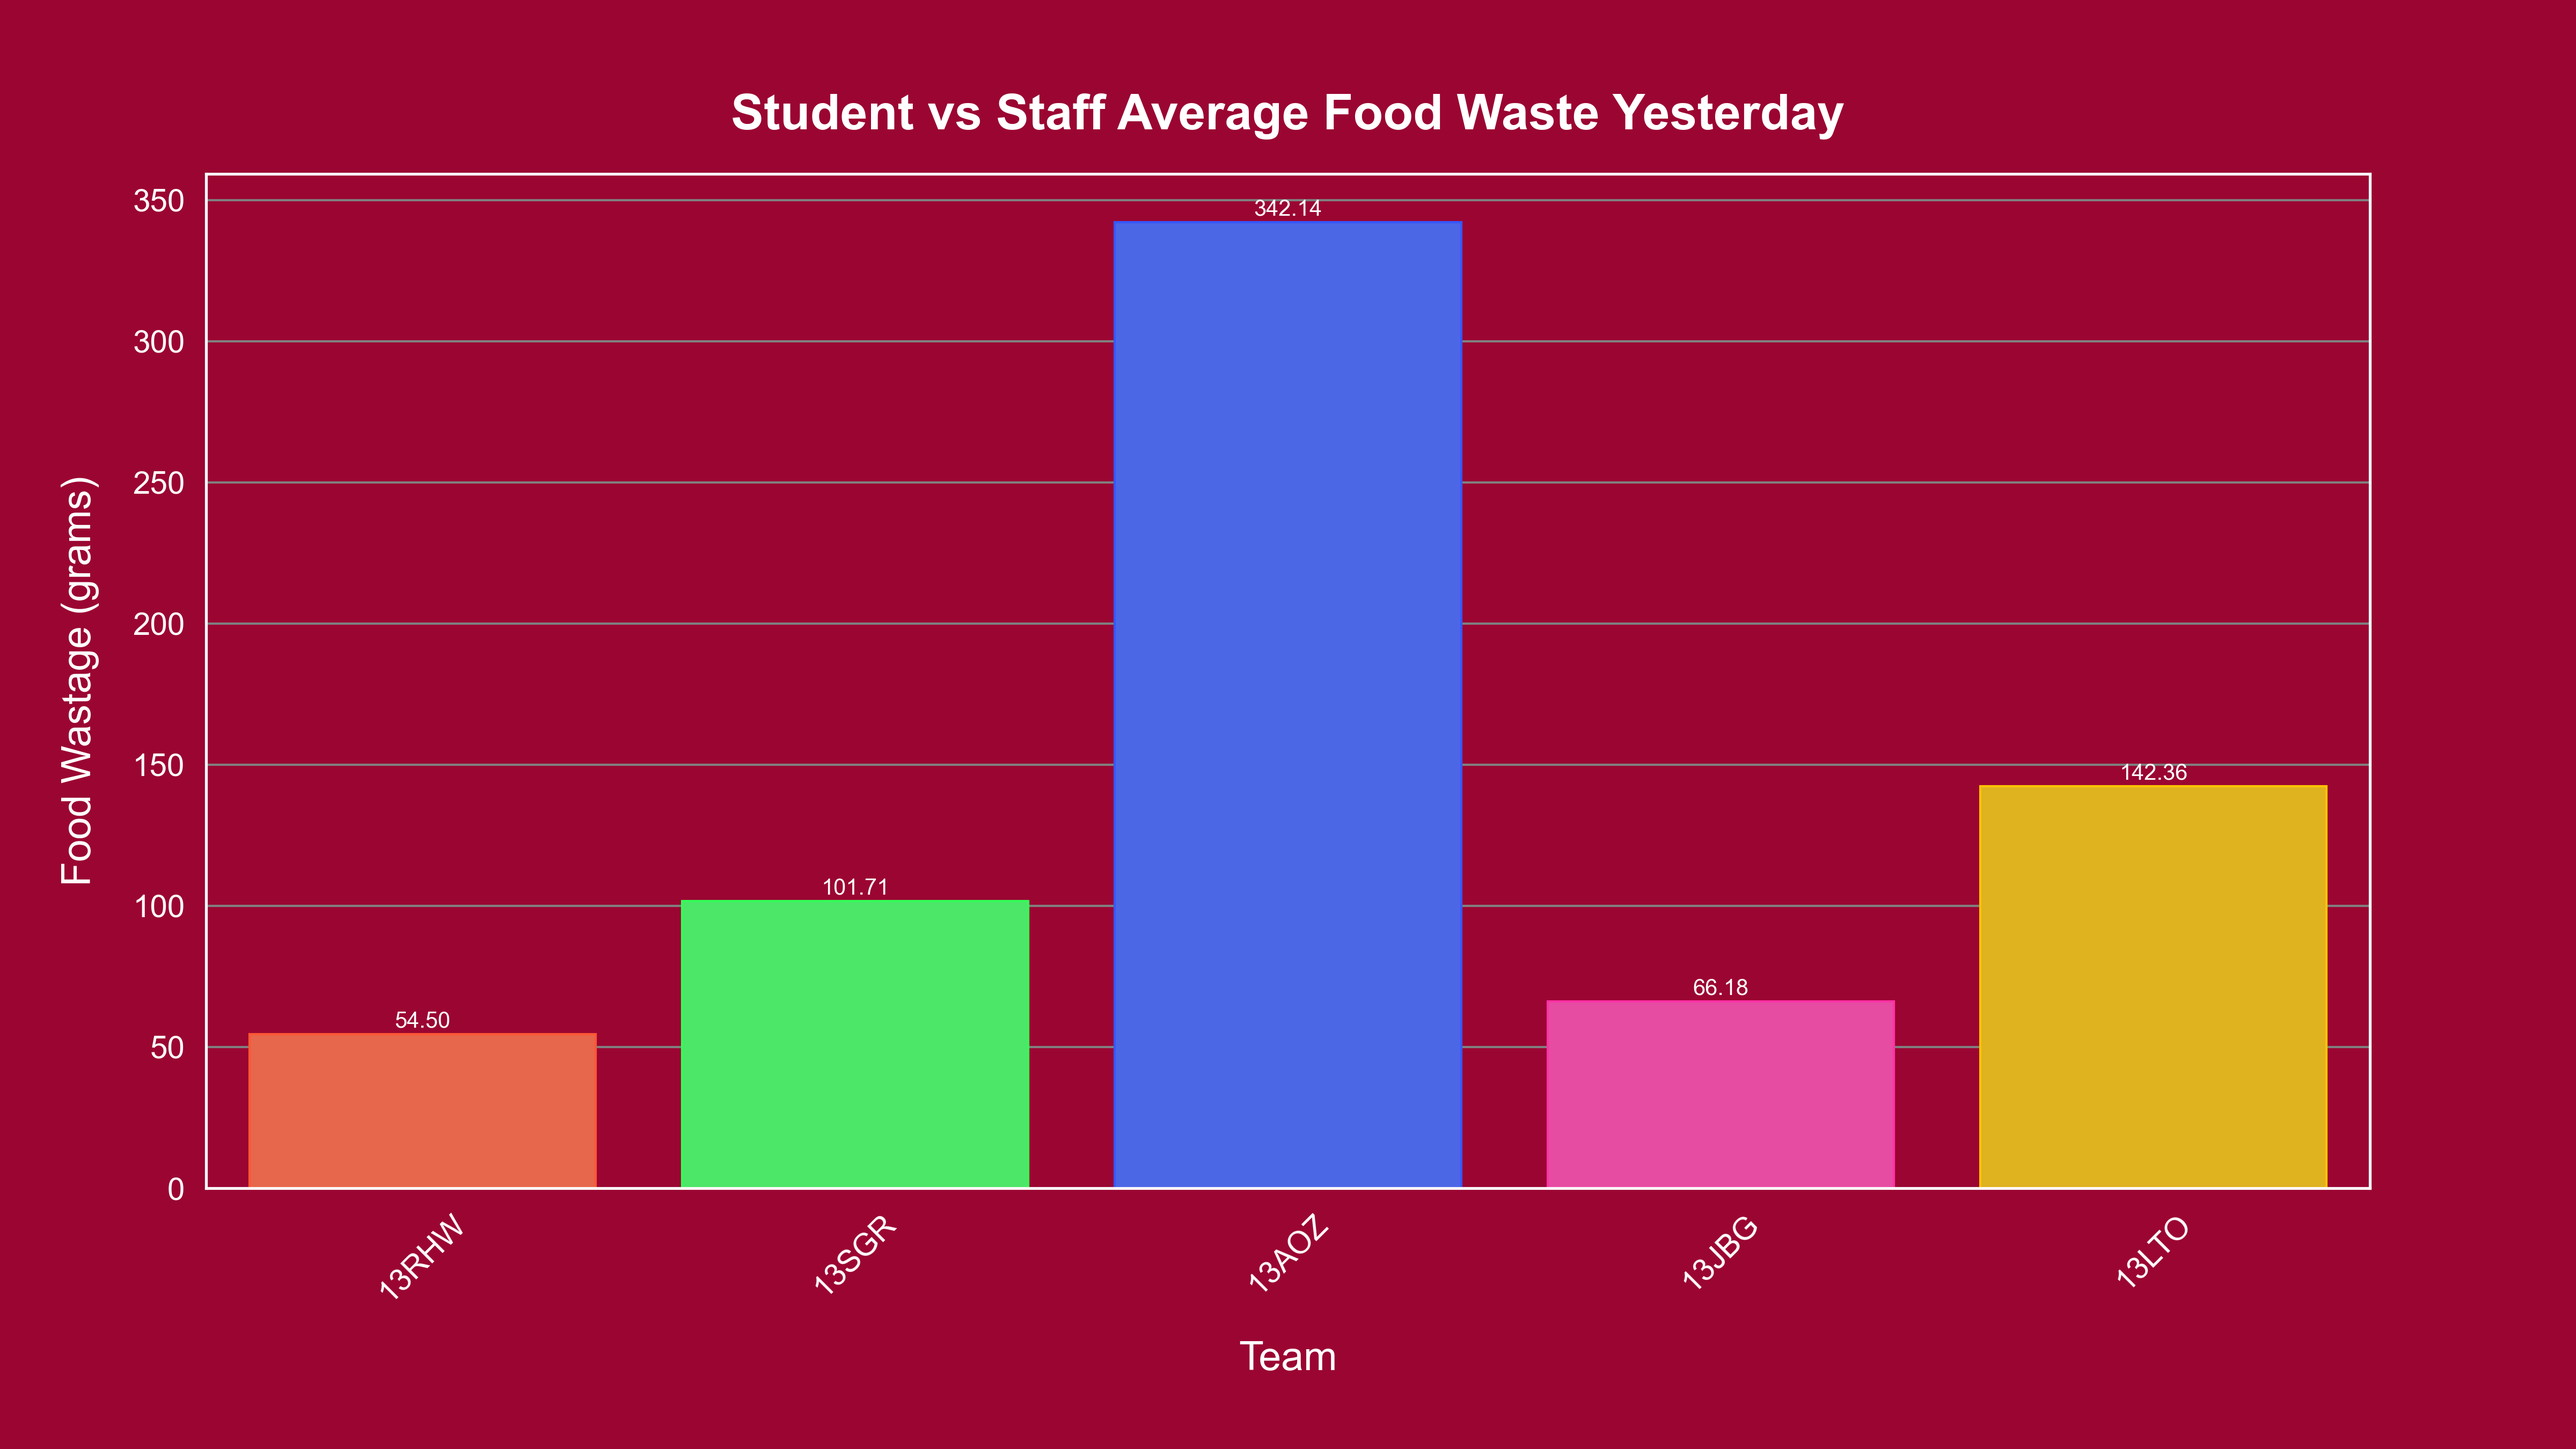
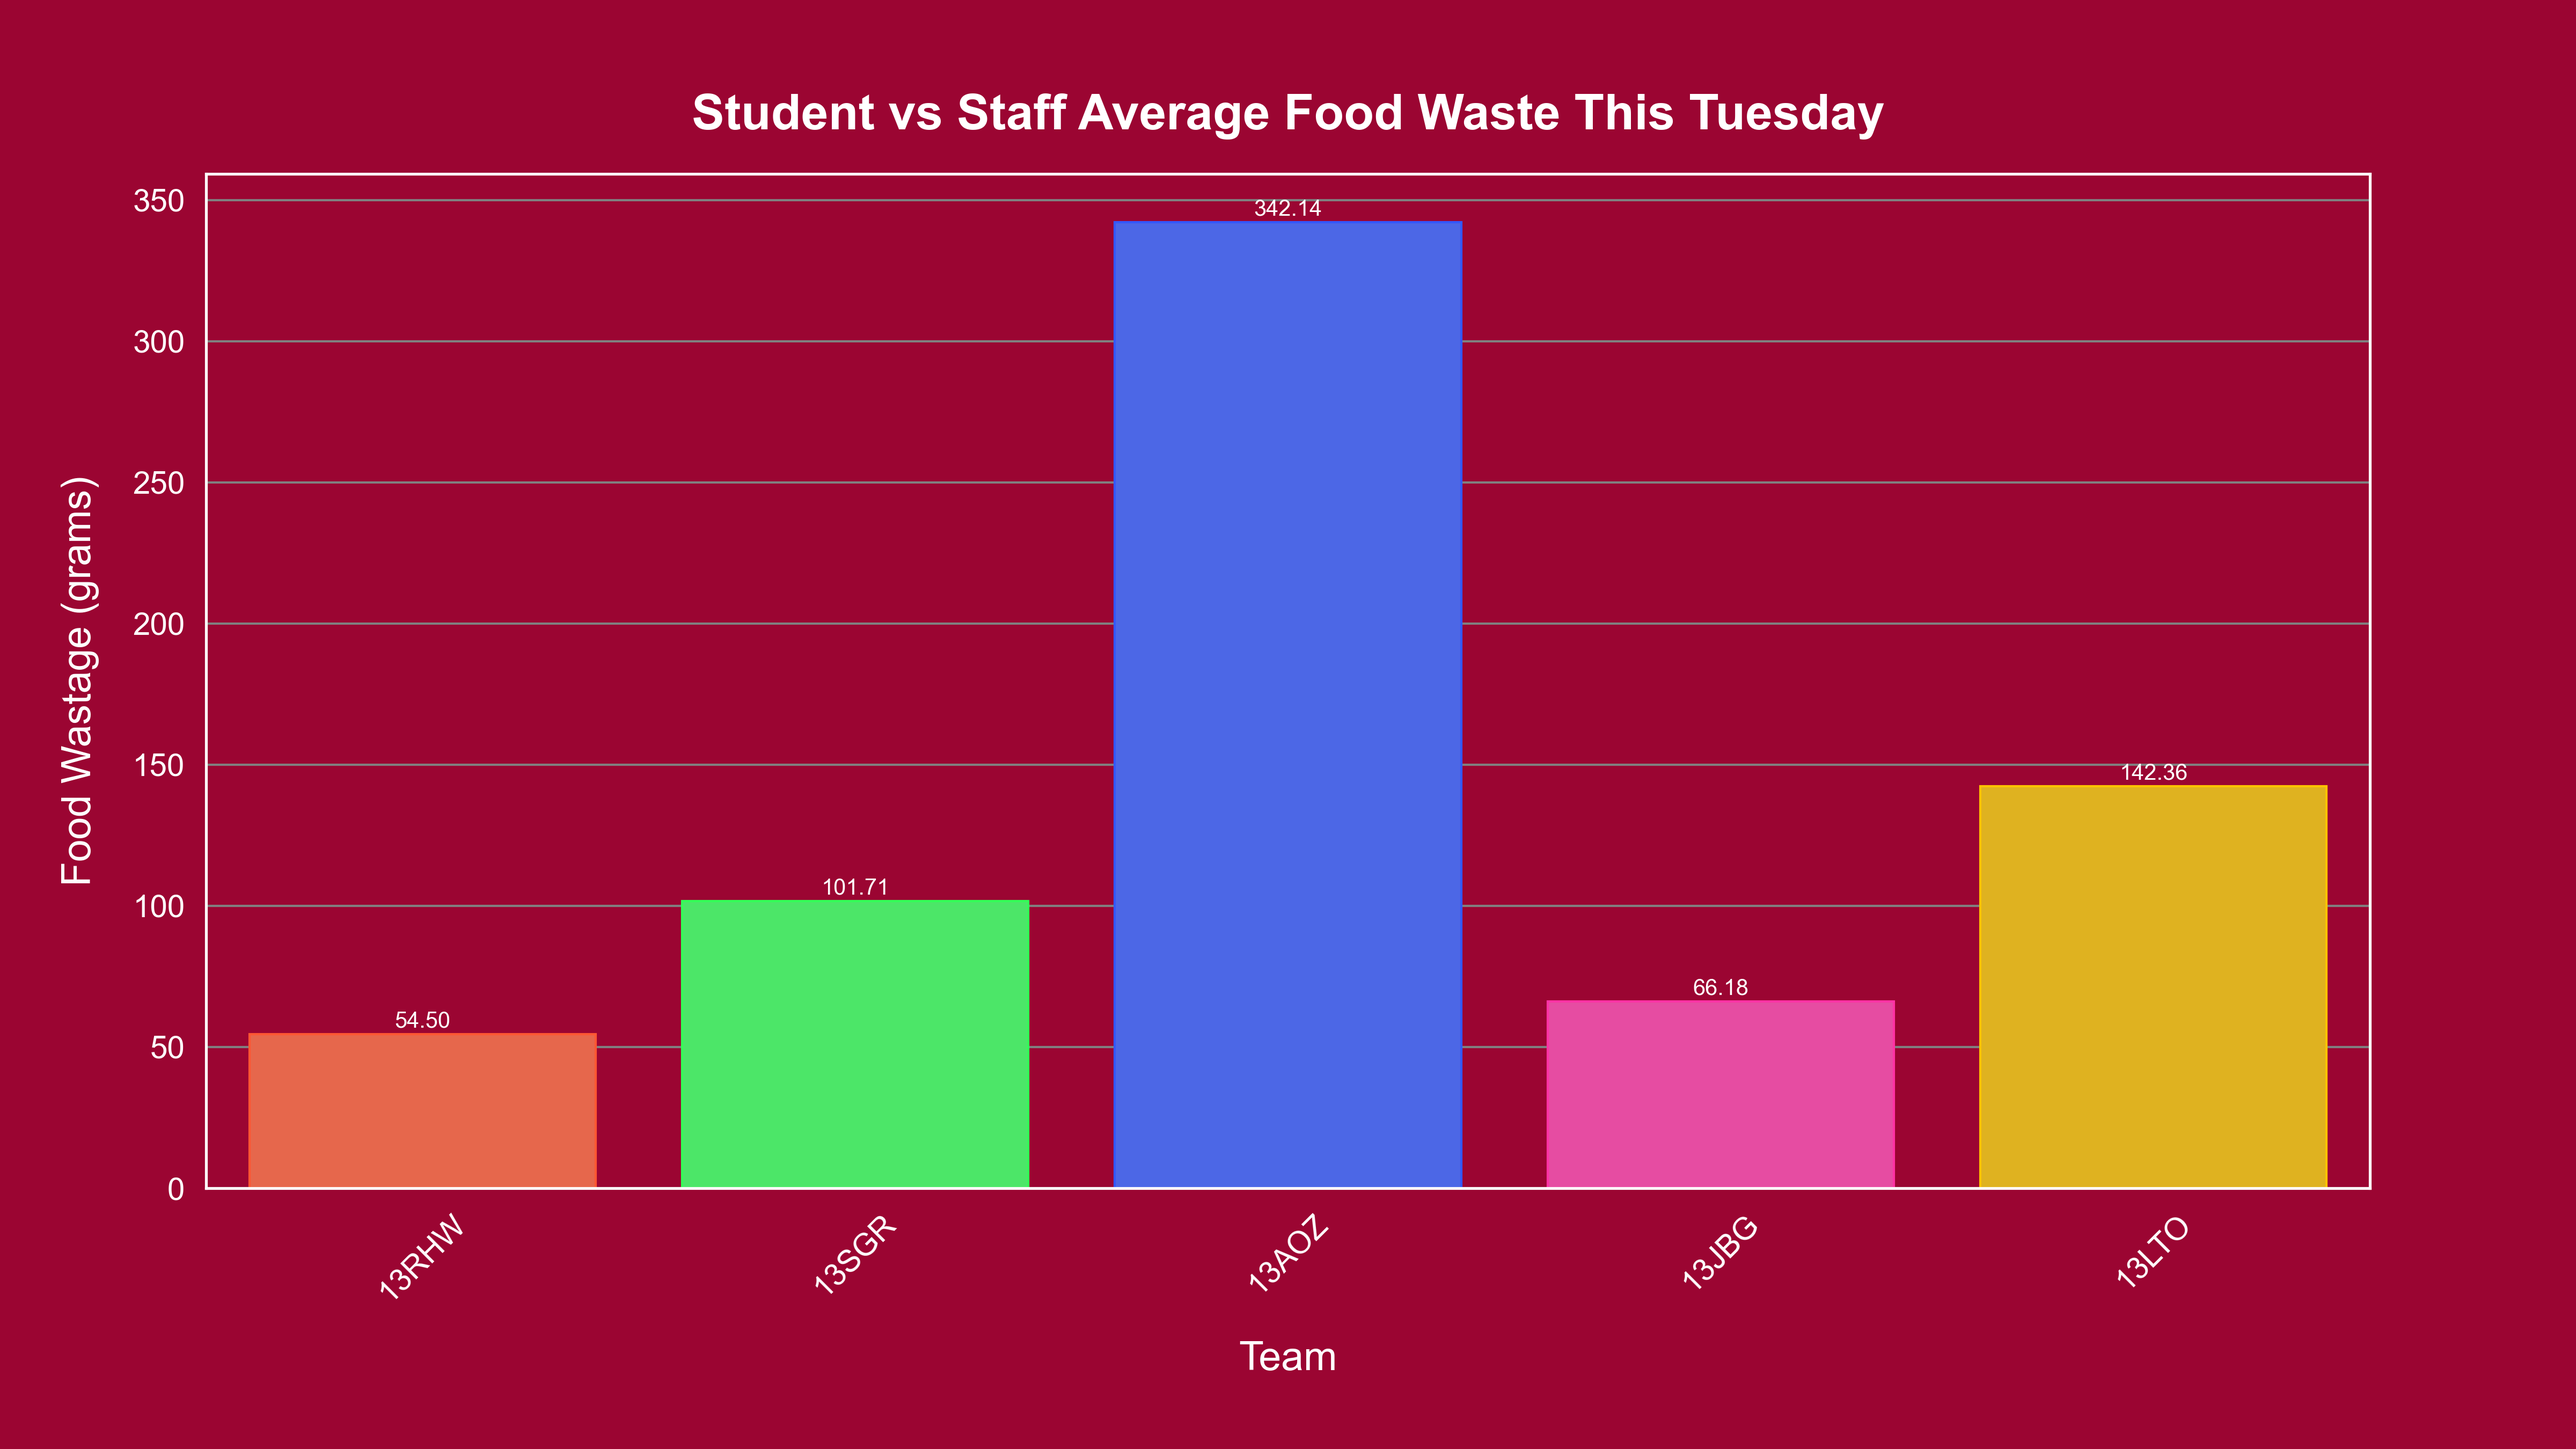
better staff plots, day vs day

Changed region(s): [[0.25, 0.0622, 0.75, 0.0933]]

diff --git a/main.py b/main.py
@@ -476,8 +476,8 @@ def spec_plot_weights(all_data, ax, ospec, start_date, end_date, cumulative, yea
     all_dates = sorted({date for spec_data in spec_wastage.values() for date in spec_data})
 
     # Debugging output to check for collected data
-    print(f"Dates for plotting: {all_dates}")
-    print(f"Collected spec_wastage: {spec_wastage}")
+    #print(f"Dates for plotting: {all_dates}")
+    #print(f"Collected spec_wastage: {spec_wastage}")
 
     # Ensure all_dates has at least one date, or return early if empty
     if not all_dates:
@@ -509,7 +509,7 @@ def spec_plot_weights(all_data, ax, ospec, start_date, end_date, cumulative, yea
             sorted_wastage = averaged_daily_wastage
 
         # Debugging output for calculated wastage
-        print(f"Spec: {spec}, Wastage Values: {sorted_wastage}")
+        #print(f"Spec: {spec}, Wastage Values: {sorted_wastage}")
 
         # Choose color based on ospec
         if ospec == 'house' and spec in house_colors:
@@ -538,6 +538,125 @@ def spec_plot_weights(all_data, ax, ospec, start_date, end_date, cumulative, yea
         legend.get_title().set_color("white")
         for text in legend.get_texts():
             text.set_color("white")
+
+def plot_daily_average_wastage(all_data, ax, ospec, start_date, end_date, year_groups = []):
+    house_colors = {
+        'Owens': '#FFA500',      # Bright Orange
+        'Soong': '#FF0000',      # Bright Red for Soong
+        'Alleyn': '#9B30FF',     # Brightened Purple for Alleyn
+        'Johnson': '#1E90FF',    # Bright Blue
+        'Wodehouse': '#32CD32'   # Lime Green
+    }
+    
+    # Define primary colors for non-house categories
+    primary_colors = ['#FF5733', '#33FF57', '#3357FF', '#FF33A5', '#FFC300', '#33FFF9', '#FF5733', 
+                      '#C70039', '#900C3F', '#581845', '#FFD700', '#8A2BE2', '#7FFF00', '#D2691E', 
+                      '#FF7F50', '#6495ED', '#DC143C', '#00FFFF']
+    
+    daily_wastage = defaultdict(lambda: defaultdict(float))
+    daily_items = defaultdict(lambda: defaultdict(int))
+
+    # Prepare data by member specification
+    for member, member_data in all_data.items():
+        if ospec == 'staff':
+            email = member_data.get('balance', '')
+            if not email:
+                continue
+            if email.endswith('@dulwich.org'):
+                member_spec = 'Staff'
+            elif email.endswith('@stu.dulwich.org'):
+                member_spec = 'Student'
+            else:
+                print("Third party: ", email)
+                continue
+        else:
+            member_spec = member_data.get(ospec)
+        
+        if not member_spec:
+            continue
+        if ospec == 'formclass' and member_data.get('yeargroup') not in year_groups:
+            continue
+
+        for day, day_data in member_data.items():
+            if day in ['name', 'house', 'yeargroup', 'formclass', 'balance']:
+                continue
+            day_date = datetime.strptime(day, "%Y-%m-%d").date()
+            if day_date < start_date or day_date > end_date:
+                continue
+            
+            has_weights = 'weights' in day_data and day_data['weights']
+            if has_weights:
+                total_weight = sum(day_data['weights'])
+                daily_wastage[day_date][member_spec] += total_weight
+
+            # Count the number of items purchased by all members in the category
+            if 'stations' in day_data:
+                daily_items[day_date][member_spec] += len(day_data['stations'])
+
+    staff_nums = {'2024-11-19': 337, '2024-11-20': 339}
+    # Calculate daily average wastage per item
+    daily_avg_wastage = defaultdict(dict)
+    for day_date in daily_wastage:
+        for spec in daily_wastage[day_date]:
+            '''if daily_items[day_date][spec] > 0:
+                daily_avg_wastage[day_date][spec] = daily_wastage[day_date][spec] / daily_items[day_date][spec]
+            else:
+                daily_avg_wastage[day_date][spec] = 0'''
+            if spec == 'Staff':
+                daily_avg_wastage[day_date][spec] = daily_wastage[day_date][spec] / staff_nums.get(str(day_date), 0)
+            elif daily_items[day_date][spec] > 0 and spec == 'Student':
+                daily_avg_wastage[day_date][spec] = daily_wastage[day_date][spec] / daily_items[day_date][spec]
+            else:
+                daily_avg_wastage[day_date][spec] = 0
+
+    # Prepare data for plotting
+    plot_data = []
+    for day_date in sorted(daily_avg_wastage):
+        for spec in daily_avg_wastage[day_date]:
+            plot_data.append({
+                'Date': day_date,
+                'Category': spec,
+                'Average Wastage': daily_avg_wastage[day_date][spec]
+            })
+
+    # Convert to DataFrame for seaborn
+    plot_df = pd.DataFrame(plot_data)
+
+    # Choose colors based on ospec
+    if ospec == 'house':
+        palette = [house_colors.get(spec, "#4B0082") for spec in plot_df['Category'].unique()]  # Default to indigo if color not in house_colors
+    else:
+        palette = primary_colors[:len(plot_df['Category'].unique())]  # Use primary colors if not 'house'
+
+    # Plotting
+    bars = sns.barplot(x='Date', y='Average Wastage', hue='Category', data=plot_df, ax=ax, palette=palette, ci=None)
+    ax.set_title(f'Daily Average Wastage per Item by {ospec}', fontsize=16, color="white")
+    ax.set_xlabel('Date', fontsize=12, color="white")
+    ax.set_ylabel('Average Wastage per Item (grams)', fontsize=12, color="white")
+
+    # Remove bar borders by setting edge color to face color
+    for bar in bars.patches:
+        bar.set_edgecolor(bar.get_facecolor())
+
+    # Add text annotations above the bars
+    for bar in bars.patches:
+        height = bar.get_height()
+        ax.annotate(f'{height:.2f}', 
+                    xy=(bar.get_x() + bar.get_width() / 2, height), 
+                    xytext=(0, 3),  # 3 points vertical offset
+                    textcoords="offset points", 
+                    ha='center', 
+                    color='white', 
+                    fontsize=10)
+
+    # Adjust colors and styling for readability
+    ax.tick_params(axis='x', colors='white', labelsize=12, rotation=45)
+    ax.tick_params(axis='y', colors='white', labelsize=12)
+    for spine in ax.spines.values():
+        spine.set_edgecolor('white')
+    ax.yaxis.label.set_color('white')
+    ax.xaxis.label.set_color('white')
+    ax.title.set_color('white')
 
 def plot_spec_average_wastage(all_data, ax, ospec, start_date, end_date, year_groups = []):
     house_colors = {
@@ -601,11 +720,11 @@ def plot_spec_average_wastage(all_data, ax, ospec, start_date, end_date, year_gr
     calculated_total_items = total_items.copy()  # Copy the calculated total items for debugging
 
     # Use fixed values for student and staff purchases
-    total_items['Student'] = 567
-    total_items['Staff'] = 337
+    #total_items['Student'] = 567
+    total_items['Staff'] = 337 #337+339
 
     # Print the calculated numbers for debugging
-    print(f"Calculated total items: {calculated_total_items}")
+    #print(f"Calculated total items: {calculated_total_items}")
 
     avg_wastage_per_item = {
         spec: total_wastage[spec] / total_items[spec] if total_items[spec] else 0
@@ -613,7 +732,7 @@ def plot_spec_average_wastage(all_data, ax, ospec, start_date, end_date, year_gr
     }
     
     # Print the average wastage per item for debugging
-    print(f"Average wastage per item: {avg_wastage_per_item}")
+    #print(f"Average wastage per item: {avg_wastage_per_item}")
 
     # Sort specifications numerically if 'yeargroup' is specified
     if ospec == 'yeargroup' and avg_wastage_per_item:
@@ -752,6 +871,10 @@ def plot_fullscreen(startDate, endDate, plots, metadata, line, cumulative, year_
             plot_counter_averages(metadata[5], ax)
             x_label = "Station"
             y_label = "Food Wastage (grams)"
+        elif plot_type == 'staff':
+            plot_daily_average_wastage(metadata[0], ax, plot_type, startDate, endDate)
+            x_label = "Date"
+            y_label = "Food Wastage (grams)"
         elif plot_type in ['formclass', 'house', 'yeargroup', 'staff']:
             if line:
                 spec_plot_weights(metadata[0], ax, plot_type, start_date=startDate, end_date=endDate, cumulative=cumulative, year_groups=year_groups)
@@ -796,7 +919,7 @@ def plot_fullscreen(startDate, endDate, plots, metadata, line, cumulative, year_
             else:
                 ax.set_title(f"{plot_type.title()} Average Food Waste {desc}{year}", fontsize=22, color="white", weight='bold', pad=20)
         else:
-            ax.set_title("Student vs Staff Average Food Waste Yesterday", fontsize=22, color="white", weight='bold', pad=20)
+            ax.set_title(f"Student vs Staff Average Food Waste {desc}", fontsize=22, color="white", weight='bold', pad=20)
             #ax.set_title(f"{plot_type.title()} Average Food Waste {desc}{year}", fontsize=22, color="white", weight='bold', pad=20)
         ax.set_xlabel(x_label, fontsize=18, color="white", labelpad=15)
         ax.set_ylabel(y_label, fontsize=18, color="white", labelpad=15)
@@ -853,23 +976,24 @@ def test(startDateStr, endDateStr):
     '''
 
     #plots = ['counters', 'yeargroup', 'house', 'formclass', 'buys', 'counter_avg']
-    plots = ['yeargroup', 'house', 'staff']
+    plots = ['staff']
     year_groups = ['9', '10', '11', '12', '13']
 
-    plot_fullscreen(startDate, endDate, plots, metadata, True, True, year_groups) # Line? Cumulative? 
-    plot_fullscreen(startDate, endDate, plots, metadata, True, False, year_groups)
+    #plot_fullscreen(startDate, endDate, plots, metadata, True, True, year_groups) # Line? Cumulative? 
+    #plot_fullscreen(startDate, endDate, plots, metadata, True, False, year_groups)
     plot_fullscreen(startDate, endDate, plots, metadata, False, False, year_groups)
 
-    plots = ['formclass']
+    '''plots = ['formclass']
     
     for year_group in year_groups:
         year_list = [year_group]
         plot_fullscreen(startDate, endDate, plots, metadata, True, False, year_list)
         plot_fullscreen(startDate, endDate, plots, metadata, True, True, year_list)
         plot_fullscreen(startDate, endDate, plots, metadata, False, False, year_list)
+    '''
 
 if __name__ == "__main__":
     
-    test("2024-11-19", "2024-11-19")
+    test("2024-11-19", "2024-11-20")
     #getWeightsbyDate(datetime.strptime("2024-05-13", '%Y-%m-%d'), datetime.strptime("2024-05-15", '%Y-%m-%d'))
     #print(weight_data)
